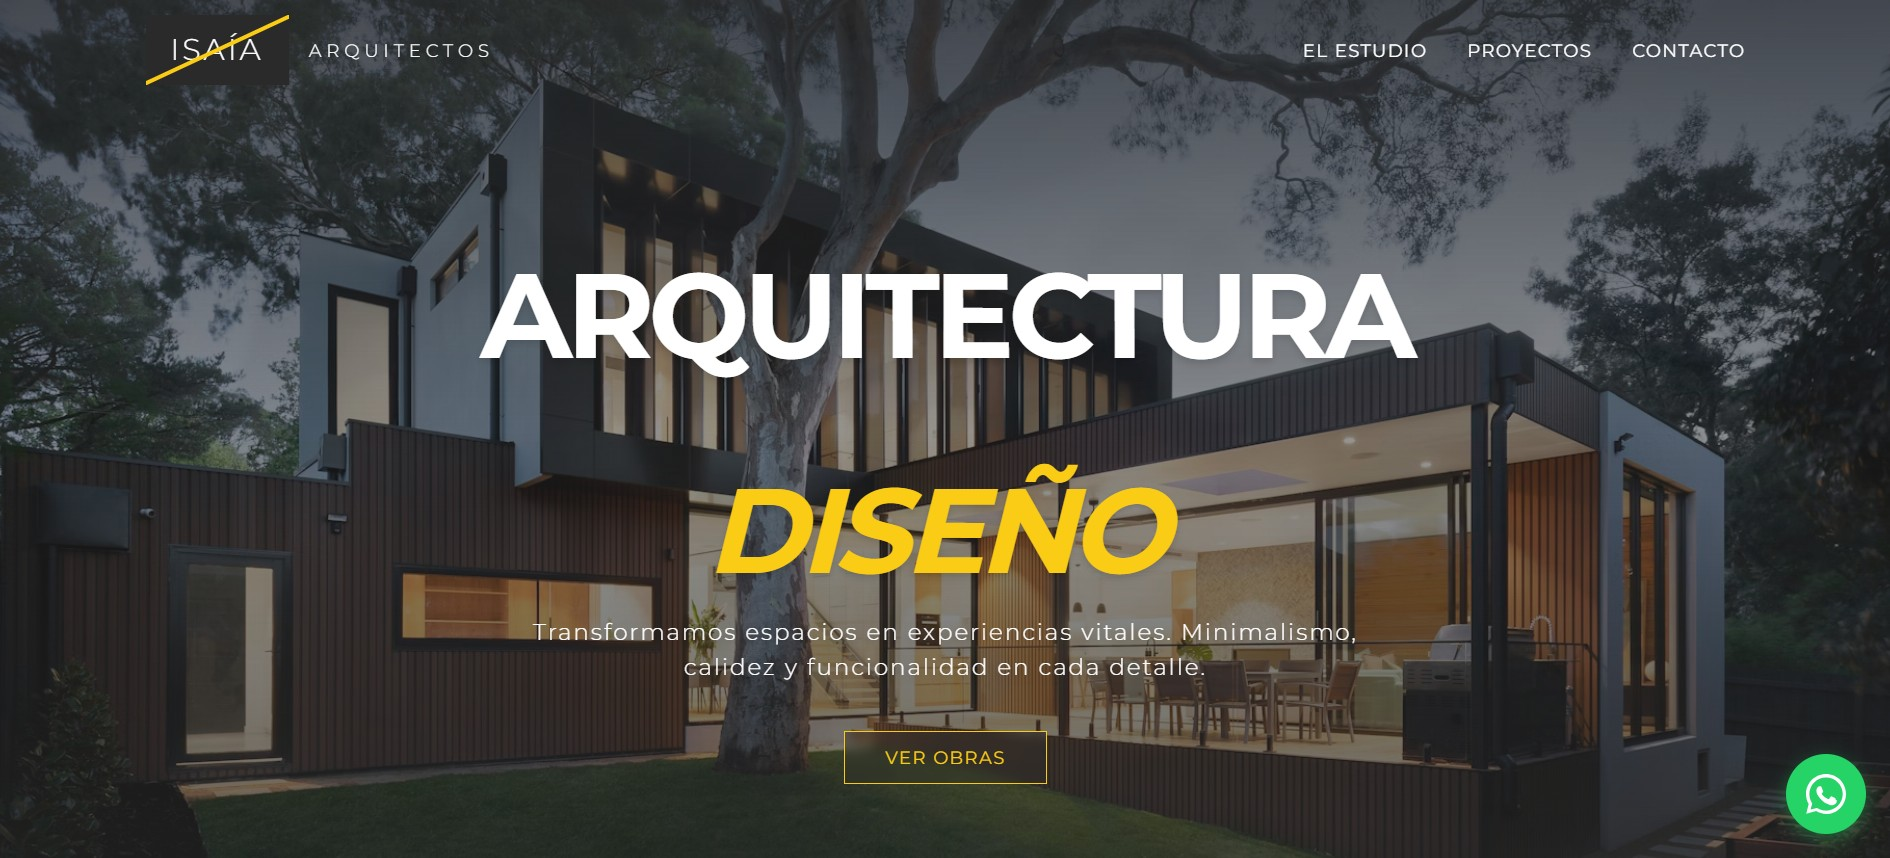
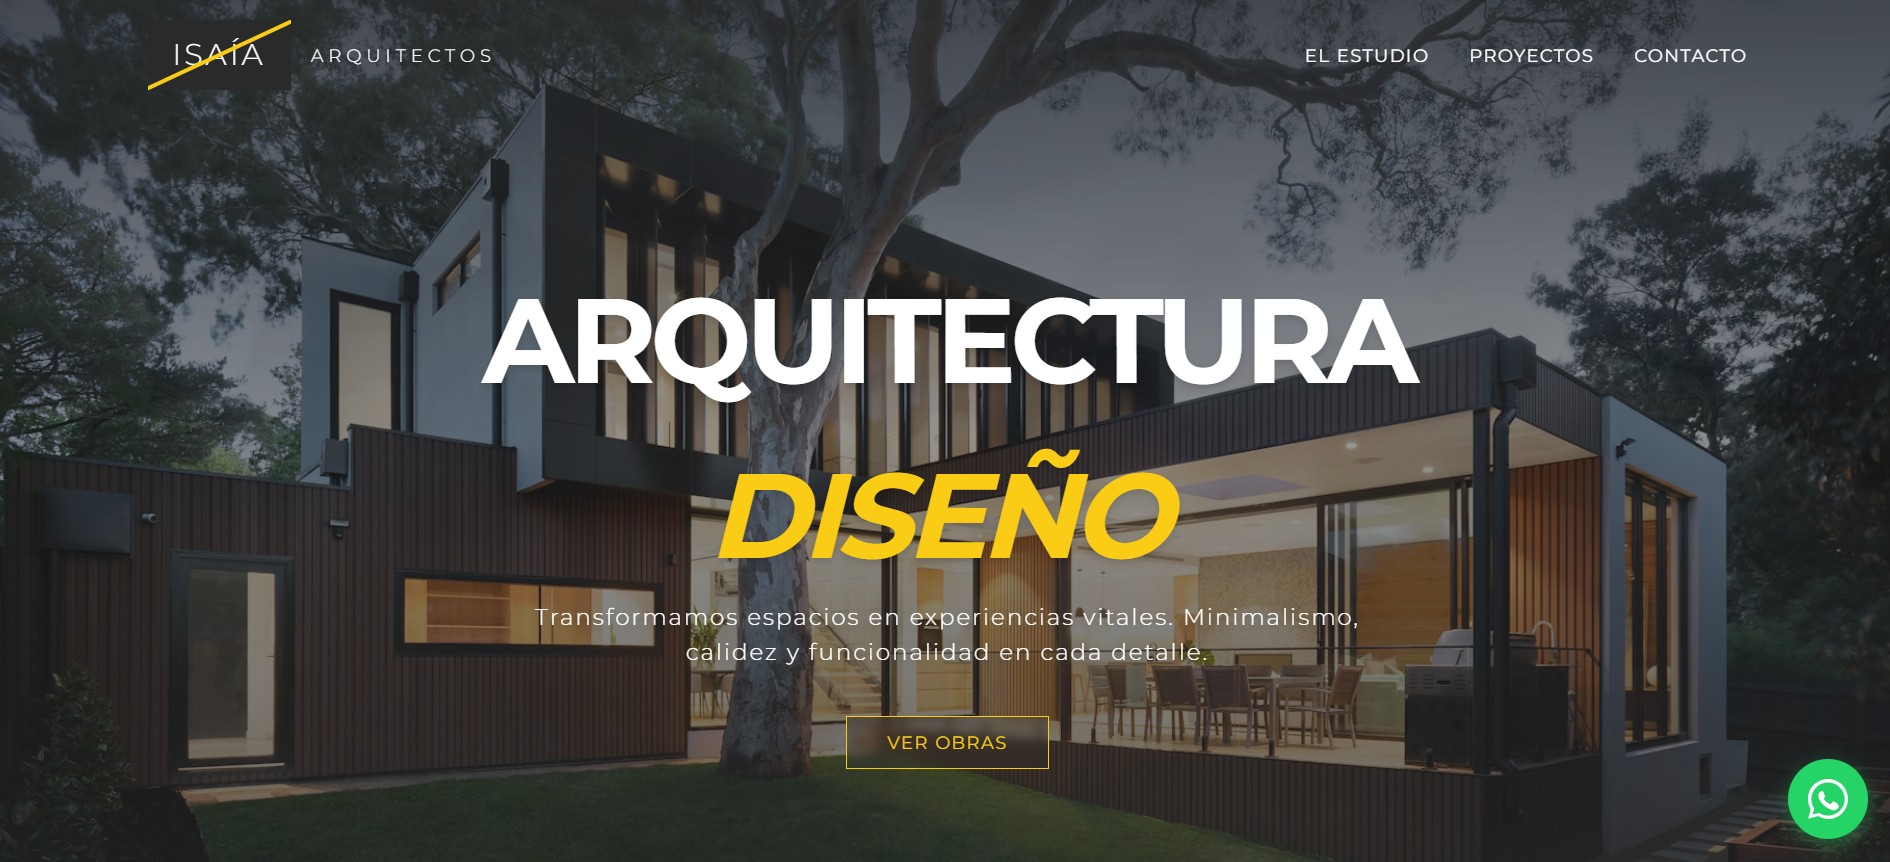
update foto

diff --git a/index.html b/index.html
@@ -977,7 +977,7 @@
 
       <a href="https://isaia-arquitectos.netlify.app/" class="portfolio-card" target="_blank">
         <div class="portfolio-thumb">
-          <img src="img/arquitecto.jpg" alt="Preview Arquitectos" style="width:100%; height:100%; object-fit:cover; object-position: top;">
+          <img src="./img/arquitecto.jpg" alt="Preview Arquitectos" style="width:100%; height:100%; object-fit:cover; object-position: top;">
           <div class="thumb-label">Arquitectura</div>
         </div>
         <div class="portfolio-info">
